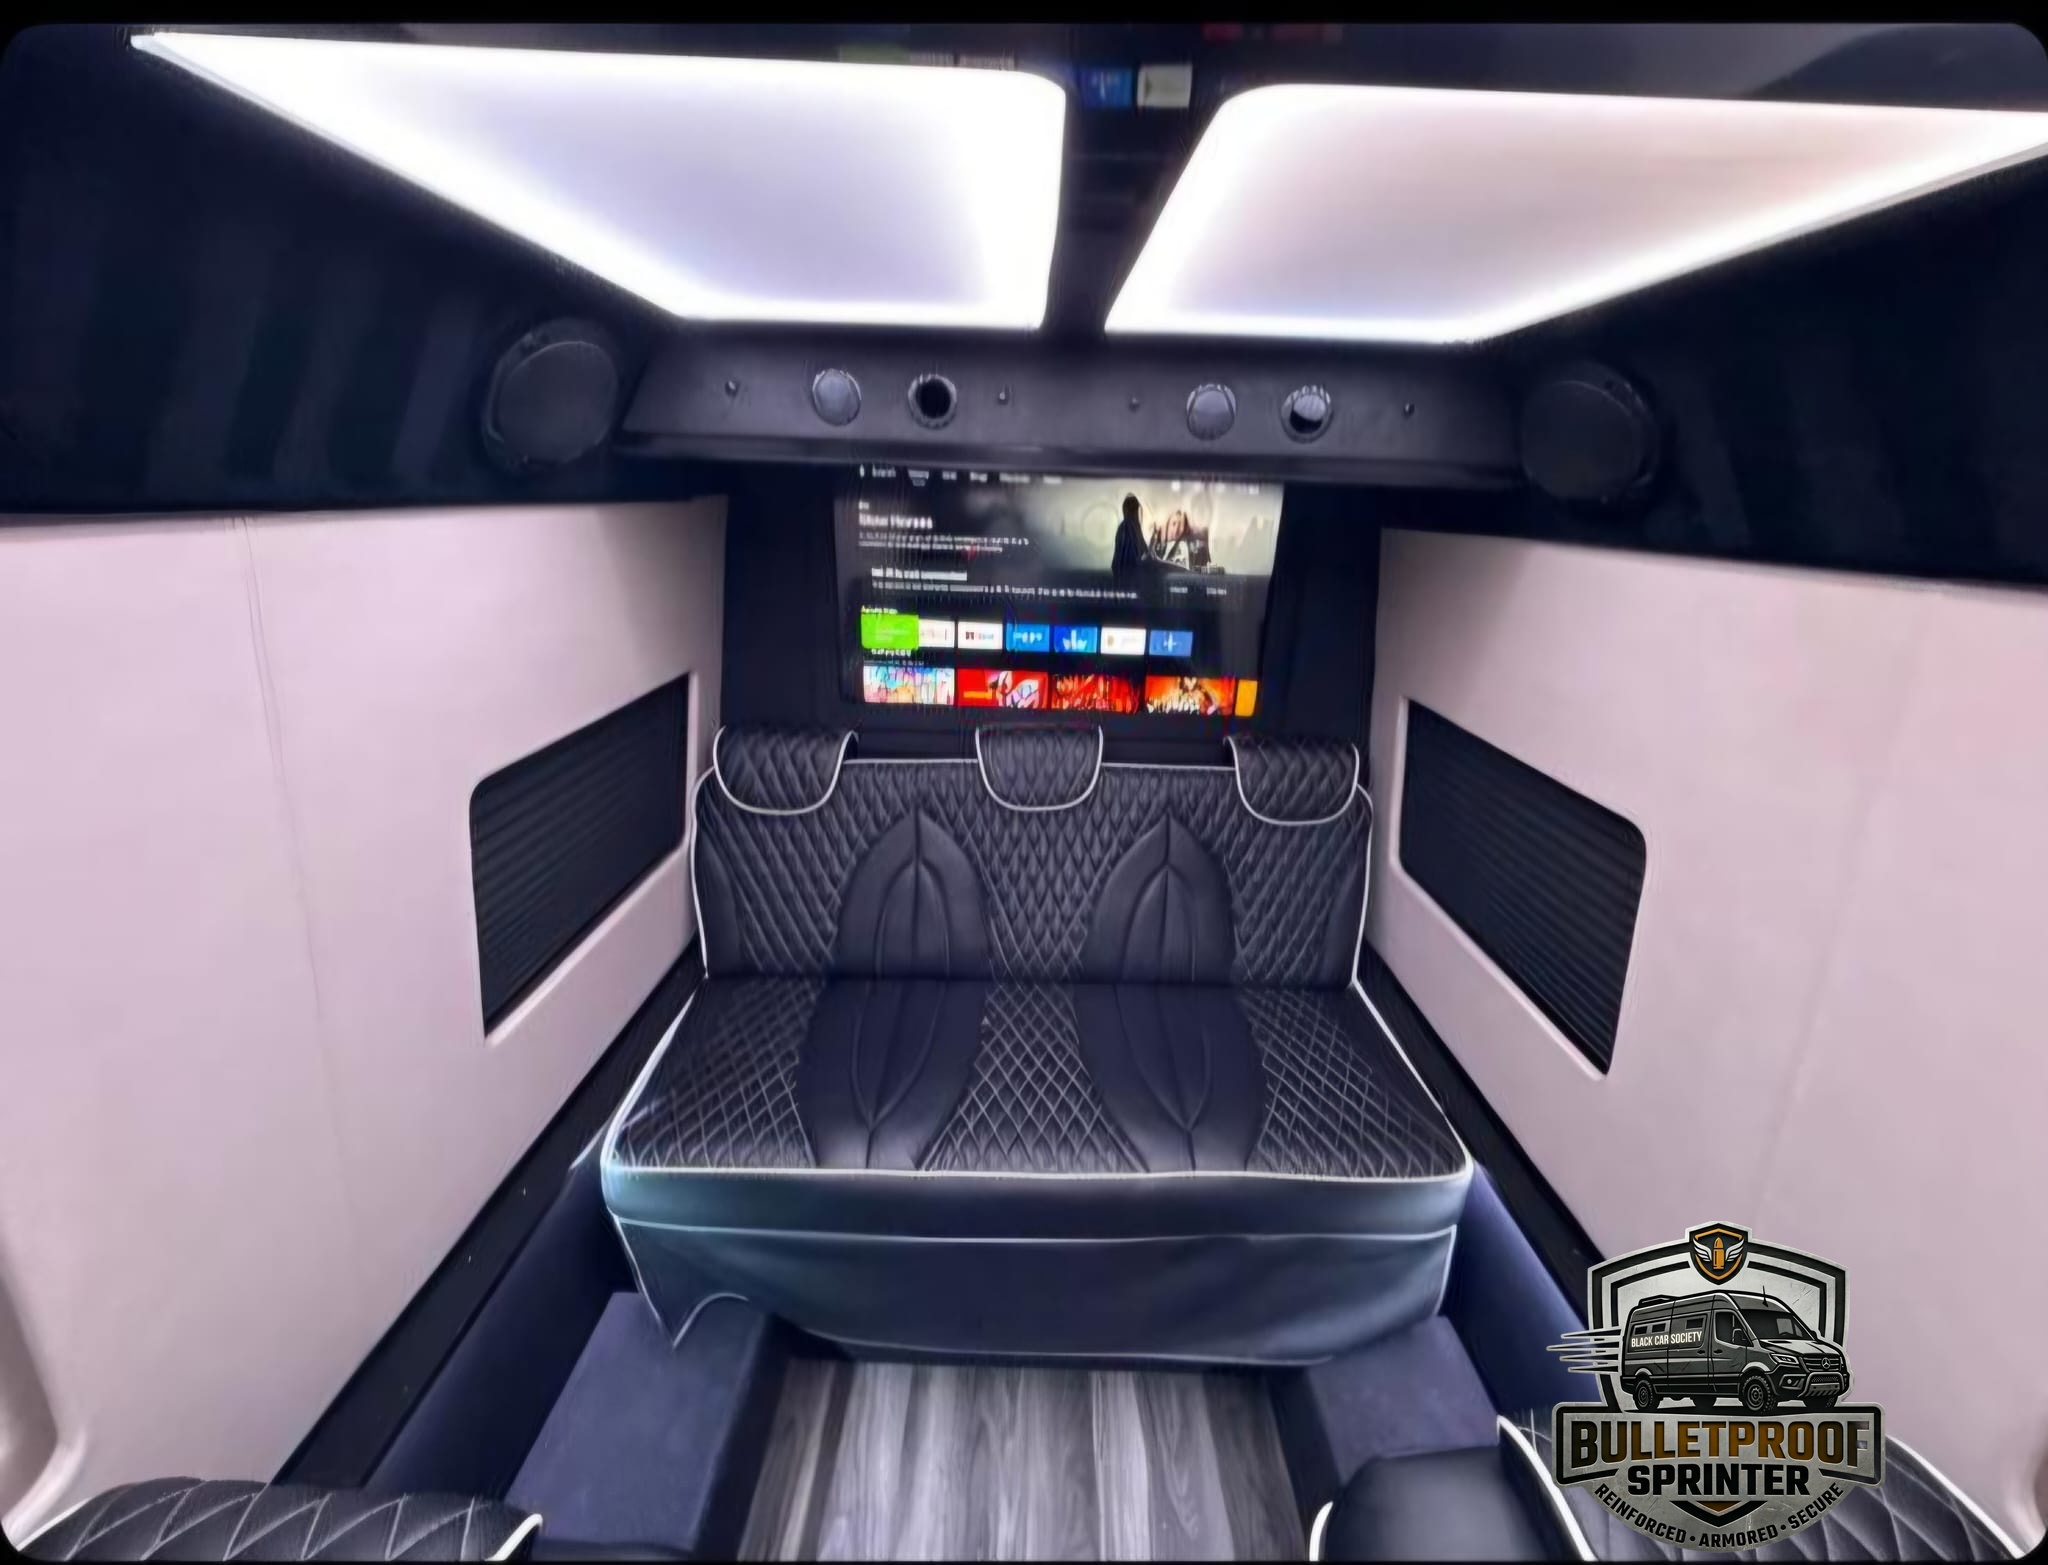
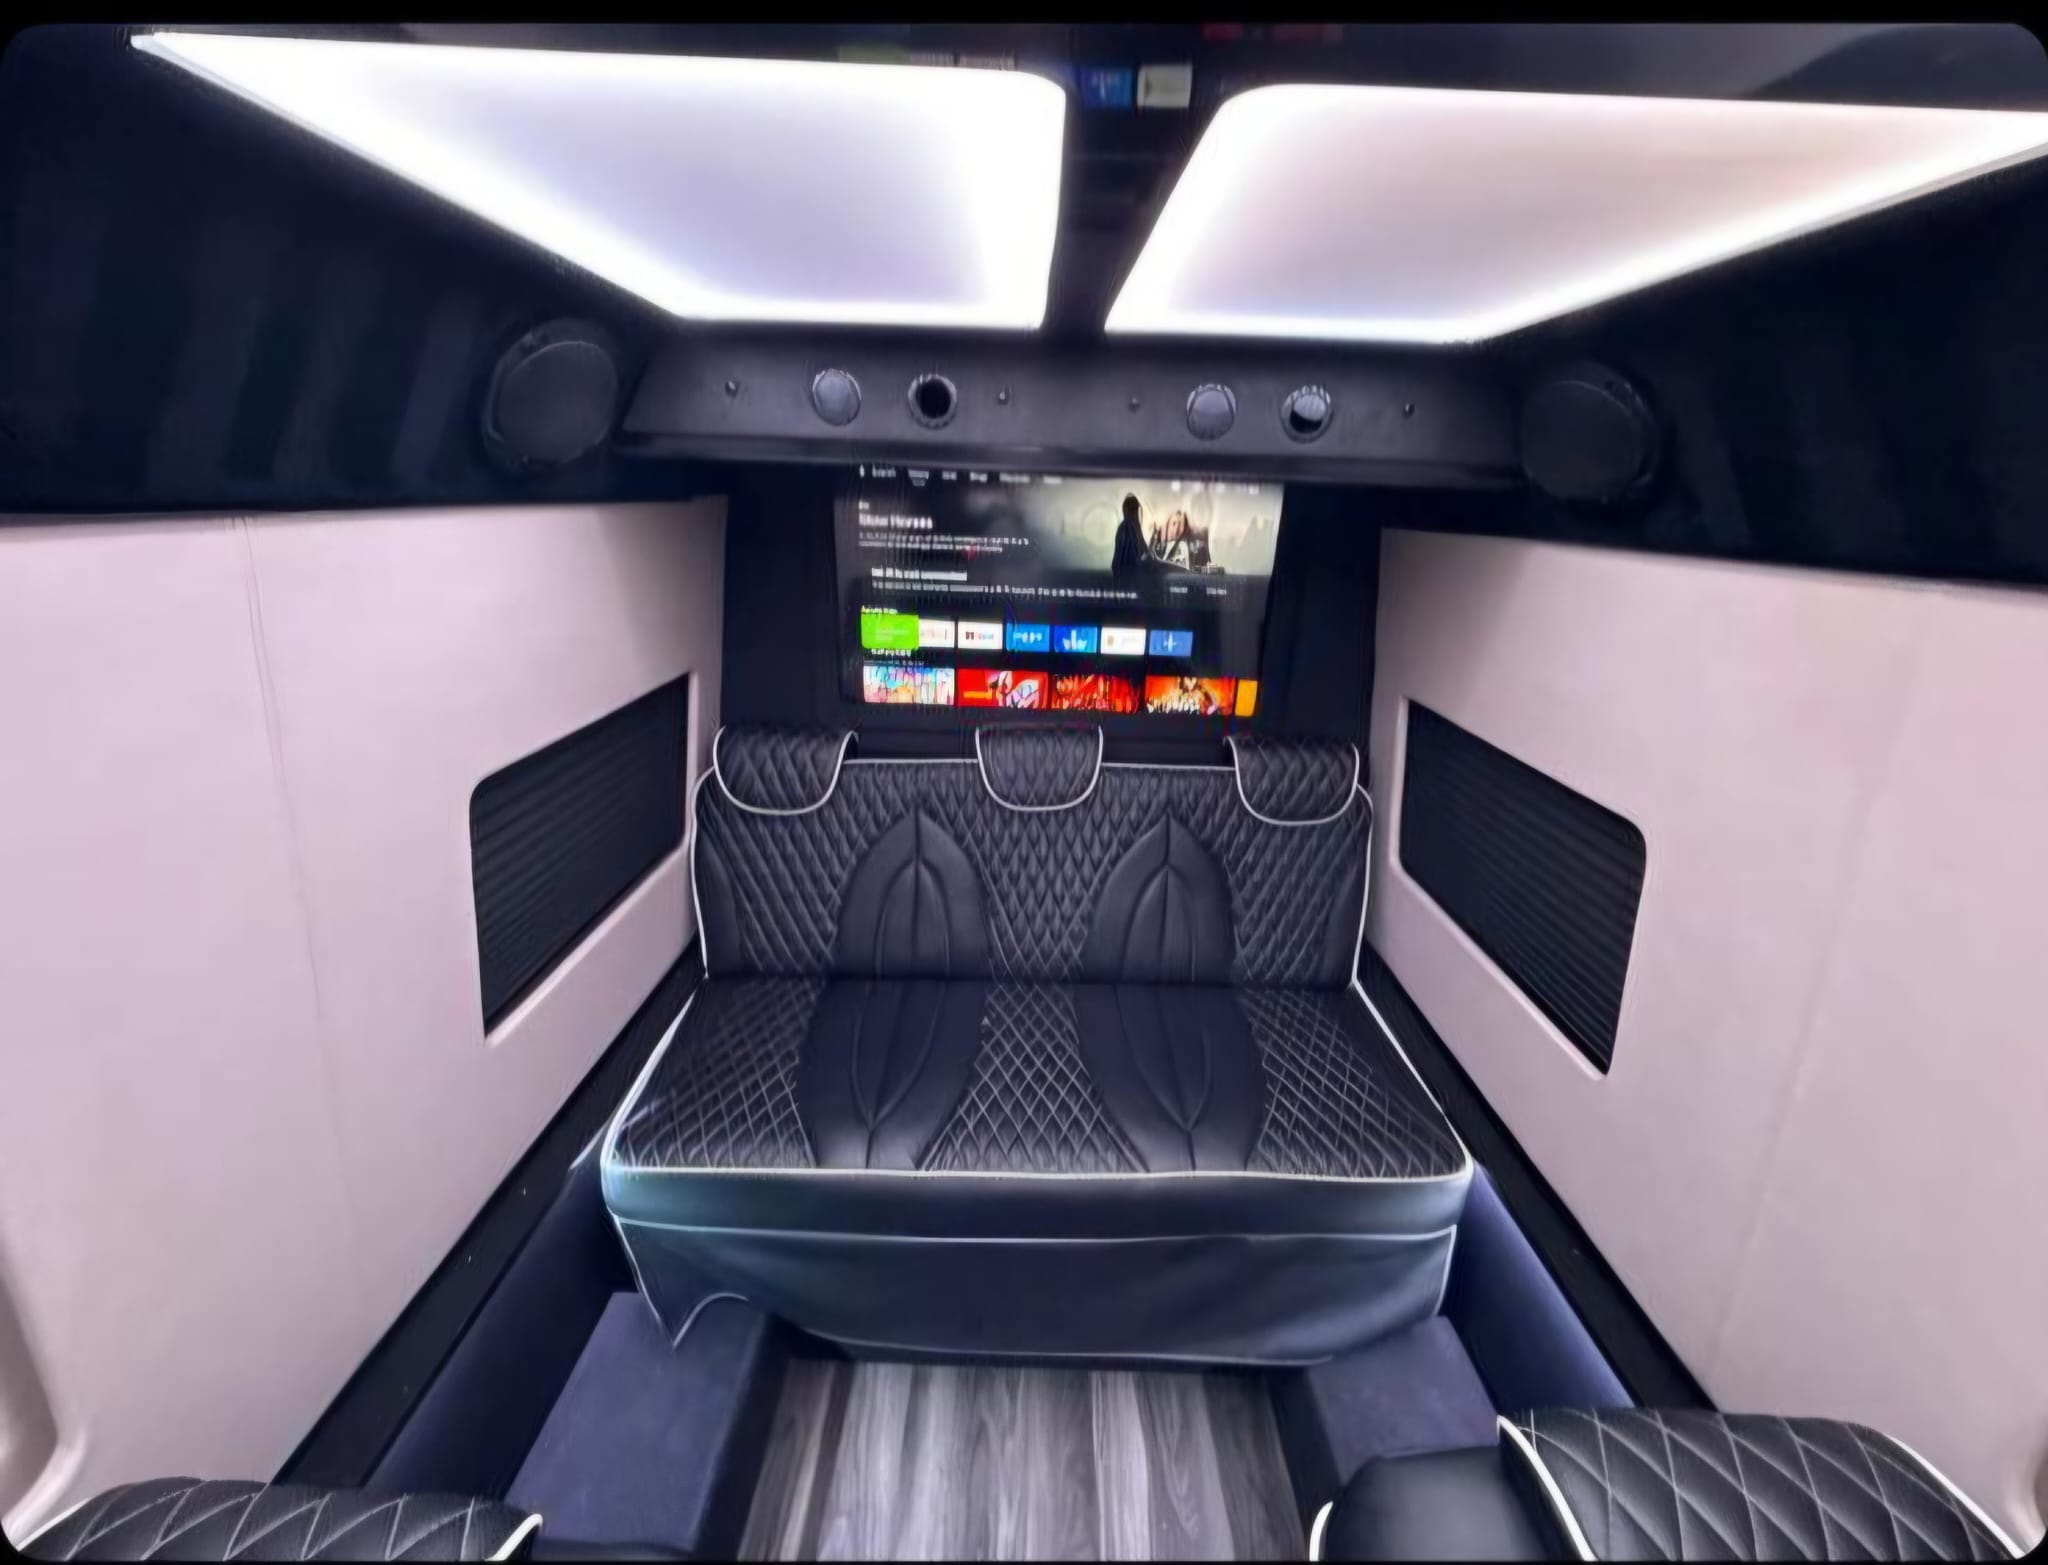
Stormcloud: swap pic 4/5, remove XL badge, refresh BulletProof_5.jpg
- Move BulletProof_9 to position 4 and BulletProof_8 to position 5 in Stormcloud gallery
- Remove XL badge from Stormcloud card
- Update dropdown option from 'Stormcloud (XL)' to 'Stormcloud'
- Refresh BulletProof_5.jpg with pre-watermark original

Changed region(s): [[0.75, 0.7668, 0.9375, 1.0]]

diff --git a/GOT/index.html b/GOT/index.html
@@ -839,8 +839,8 @@
                     <img src="../CAR_PICTURES/JET/BulletProof/BulletProof_7.jpg" alt="Stormcloud 1" loading="lazy">
                     <img src="../CAR_PICTURES/JET/BulletProof/BulletProof_4.jpg" alt="Stormcloud 2" loading="lazy">
                     <img src="../CAR_PICTURES/JET/BulletProof/BulletProof_5.jpg" alt="Stormcloud 3" loading="lazy">
-                    <img src="../CAR_PICTURES/JET/BulletProof/BulletProof_8.jpg" alt="Stormcloud 4" loading="lazy">
-                    <img src="../CAR_PICTURES/JET/BulletProof/BulletProof_9.jpg" alt="Stormcloud 5" loading="lazy">
+                    <img src="../CAR_PICTURES/JET/BulletProof/BulletProof_9.jpg" alt="Stormcloud 4" loading="lazy">
+                    <img src="../CAR_PICTURES/JET/BulletProof/BulletProof_8.jpg" alt="Stormcloud 5" loading="lazy">
                     <img src="../CAR_PICTURES/JET/BulletProof/Bulletproof_outside.png" alt="Stormcloud 6" loading="lazy">
                     <img src="../CAR_PICTURES/JET/BulletProof/Outside-2.jpg" alt="Stormcloud 7" loading="lazy">
                     <img src="../CAR_PICTURES/JET/BulletProof/Outside-3.jpg" alt="Stormcloud 8" loading="lazy">
@@ -849,7 +849,6 @@
                 <button class="g-arrow next" onclick="galleryNav(this,1)">&#8250;</button>
                 <span class="g-counter">1/8</span></div>
                 <div class="v-card-body">
-                    <div class="v-card-badge">XL</div>
                     <h3 class="v-card-name">Stormcloud</h3>
                     <div class="v-card-row"><span class="v-card-meta">Bulletproof &middot; 3hr min</span><span class="v-card-price">$499<span>/hr</span></span></div>
                 </div>
@@ -1438,7 +1437,7 @@
                 <select>
                     <option value="">Choose your steed...</option>
                     <optgroup label="The Dragons (Sprinter Jets)">
-                        <option>Drogon (XL)</option><option>Balerion (XL)</option><option>Stormcloud (XL)</option><option>Rhaegal</option><option>Viserion</option><option>Syrax</option>
+                        <option>Drogon (XL)</option><option>Balerion (XL)</option><option>Stormcloud</option><option>Rhaegal</option><option>Viserion</option><option>Syrax</option>
                     </optgroup>
                     <optgroup label="The Great Houses (Stretch Limos)">
                         <option>Targaryen</option><option>Stark</option><option>Lannister</option>

diff --git a/index.html b/index.html
@@ -845,8 +845,8 @@
                     <img src="../CAR_PICTURES/JET/BulletProof/BulletProof_7.jpg" alt="Stormcloud 1" loading="lazy">
                     <img src="../CAR_PICTURES/JET/BulletProof/BulletProof_4.jpg" alt="Stormcloud 2" loading="lazy">
                     <img src="../CAR_PICTURES/JET/BulletProof/BulletProof_5.jpg" alt="Stormcloud 3" loading="lazy">
-                    <img src="../CAR_PICTURES/JET/BulletProof/BulletProof_8.jpg" alt="Stormcloud 4" loading="lazy">
-                    <img src="../CAR_PICTURES/JET/BulletProof/BulletProof_9.jpg" alt="Stormcloud 5" loading="lazy">
+                    <img src="../CAR_PICTURES/JET/BulletProof/BulletProof_9.jpg" alt="Stormcloud 4" loading="lazy">
+                    <img src="../CAR_PICTURES/JET/BulletProof/BulletProof_8.jpg" alt="Stormcloud 5" loading="lazy">
                     <img src="../CAR_PICTURES/JET/BulletProof/Bulletproof_outside.png" alt="Stormcloud 6" loading="lazy">
                     <img src="../CAR_PICTURES/JET/BulletProof/Outside-2.jpg" alt="Stormcloud 7" loading="lazy">
                     <img src="../CAR_PICTURES/JET/BulletProof/Outside-3.jpg" alt="Stormcloud 8" loading="lazy">
@@ -855,7 +855,6 @@
                 <button class="g-arrow next" onclick="galleryNav(this,1)">&#8250;</button>
                 <span class="g-counter">1/8</span></div>
                 <div class="v-card-body">
-                    <div class="v-card-badge">XL</div>
                     <h3 class="v-card-name">Stormcloud</h3>
                     <div class="v-card-row"><span class="v-card-meta">Bulletproof &middot; 3hr min</span><span class="v-card-price">$499<span>/hr</span></span></div>
                 </div>
@@ -1444,7 +1443,7 @@
                 <select>
                     <option value="">Choose your steed...</option>
                     <optgroup label="The Dragons (Sprinter Jets)">
-                        <option>Drogon (XL)</option><option>Balerion (XL)</option><option>Stormcloud (XL)</option><option>Rhaegal</option><option>Viserion</option><option>Syrax</option>
+                        <option>Drogon (XL)</option><option>Balerion (XL)</option><option>Stormcloud</option><option>Rhaegal</option><option>Viserion</option><option>Syrax</option>
                     </optgroup>
                     <optgroup label="The Great Houses (Stretch Limos)">
                         <option>Targaryen</option><option>Stark</option><option>Lannister</option>
